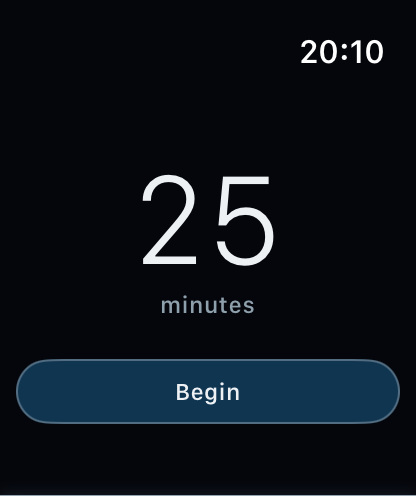
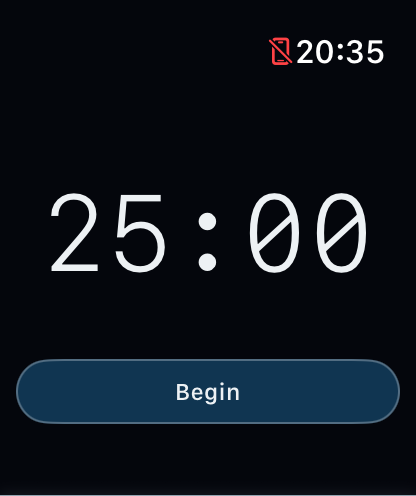
Show the chosen duration as a clock before starting
Single digits read poorly as a bare numeral. The start screen now shows
mm:ss — 01:00, 25:00, 120:00 — so the figure you set is the figure you then
watch count down, rather than changing format the moment you press Begin.

The "minutes" label goes with it: under a mm:ss readout the colon already
says what the unit is, so the label was restating it. An accessibility label
carries the spoken form instead.

Both extremes checked on screen: 01:00 pads correctly and 120:00 fits the
slot (minimumScaleFactor covers it if a future value doesn't).

Preview launches now skip the notification permission prompt, which
otherwise sits on top of whatever state is being captured on a fresh install.

diff --git a/FocusAppWatch/StartView.swift b/FocusAppWatch/StartView.swift
@@ -14,15 +14,16 @@ struct StartView: View {
         VStack(spacing: 0) {
             Spacer(minLength: 0)
 
-            Text("\(session.selectedMinutes)")
-                .font(TypeScale.numerals(62, weight: .light))
+            // Shown as the clock it's about to become, so the figure you set is
+            // the figure you then watch count down. A "minutes" label under a
+            // mm:ss readout would be restating what the colon already says.
+            Text(String(format: "%02d:00", session.selectedMinutes))
+                .font(TypeScale.numerals(54, weight: .light))
                 .foregroundStyle(Palette.ink)
+                .lineLimit(1)
+                .minimumScaleFactor(0.5)
                 .contentTransition(.numericText())
-
-            Text(session.selectedMinutes == 1 ? "minute" : "minutes")
-                .font(TypeScale.label)
-                .foregroundStyle(Palette.inkMuted)
-                .padding(.top, -2)
+                .accessibilityLabel("\(session.selectedMinutes) minute session")
 
             Spacer(minLength: 0)
 

diff --git a/FocusAppWatch/ActiveSessionView.swift b/FocusAppWatch/ActiveSessionView.swift
@@ -16,6 +16,8 @@ struct ActiveSessionView: View {
                 Text(countdown)
                     .font(TypeScale.numerals(52))
                     .foregroundStyle(Palette.ink)
+                    .lineLimit(1)
+                    .minimumScaleFactor(0.5)
                     .accessibilityLabel("\(Int(session.remaining / 60)) minutes remaining")
 
                 if let endsAt = session.endsAt {
@@ -49,7 +51,7 @@ struct ActiveSessionView: View {
 
     private var countdown: String {
         let total = Int(session.remaining.rounded(.up))
-        return String(format: "%d:%02d", total / 60, total % 60)
+        return String(format: "%02d:%02d", total / 60, total % 60)
     }
 }
 

diff --git a/FocusAppWatch/FocusSession.swift b/FocusAppWatch/FocusSession.swift
@@ -120,6 +120,14 @@ final class FocusSession: ObservableObject {
     // MARK: - Lifecycle
 
     func prepare() async {
+        #if DEBUG
+        // Preview launches skip the permission prompt so it doesn't sit on top
+        // of whatever state is being captured.
+        if ProcessInfo.processInfo.arguments.contains(where: {
+            $0 == "-previewRunning" || $0 == "-previewMinutes"
+        }) { return }
+        #endif
+
         alertsEnabled = await alerts.requestAuthorization()
     }
 
